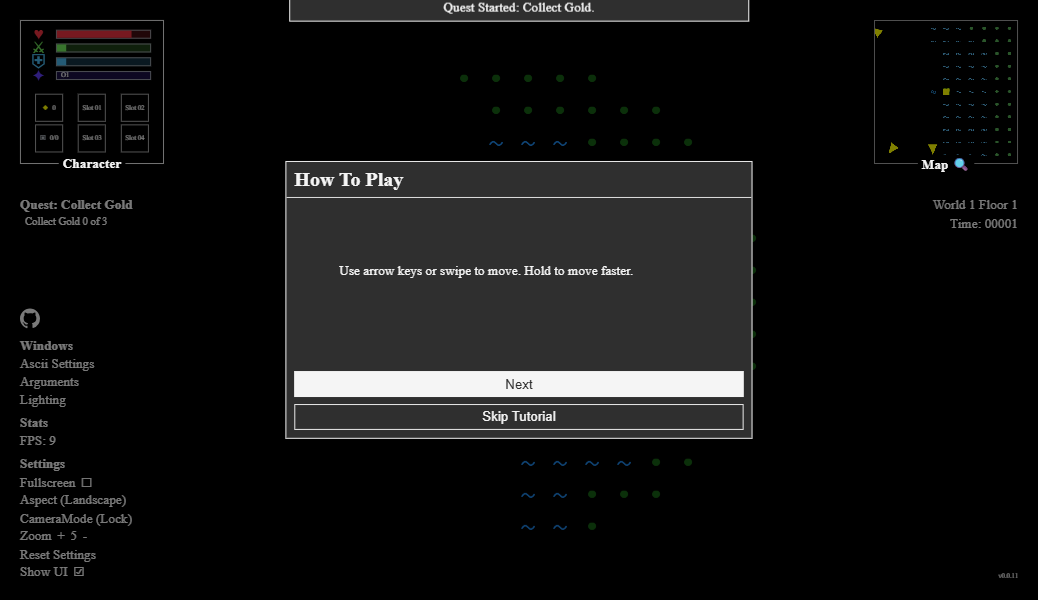
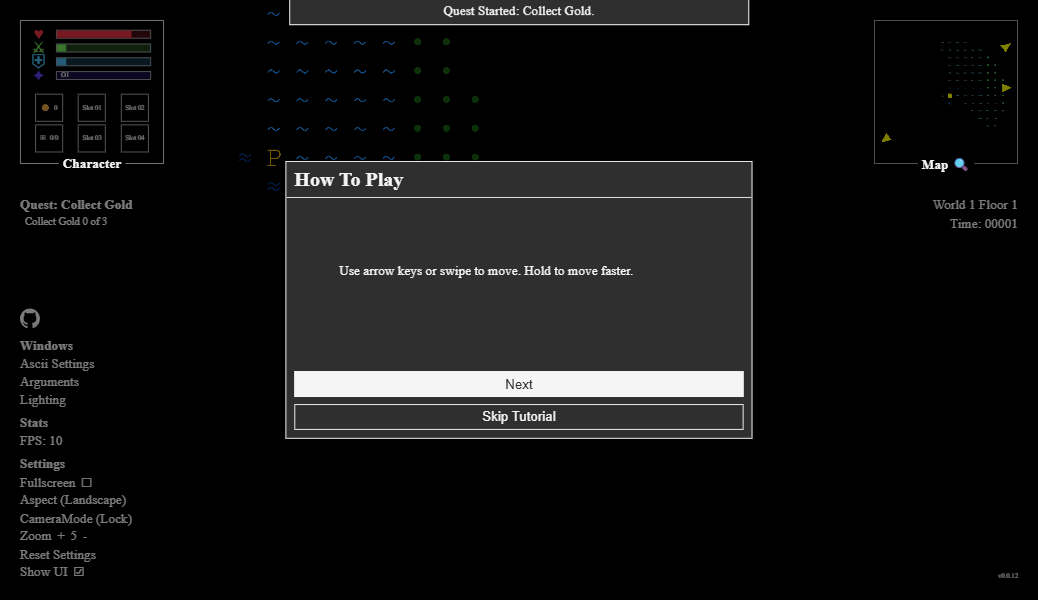
docs: refresh README screenshot for release

diff --git a/ascii-rpg/src/runtime/ui-layer-react/platform-settings.js b/ascii-rpg/src/runtime/ui-layer-react/platform-settings.js
@@ -7,7 +7,7 @@ import {
 } from "../game-layer-babylon-lite/zoom-scale.js";
 
 export const PC_SETTINGS_DEFAULTS = Object.freeze({
-  zoom: migrateLegacyZoom(5),
+  zoom: 5,
   showHud: true,
 });
 
